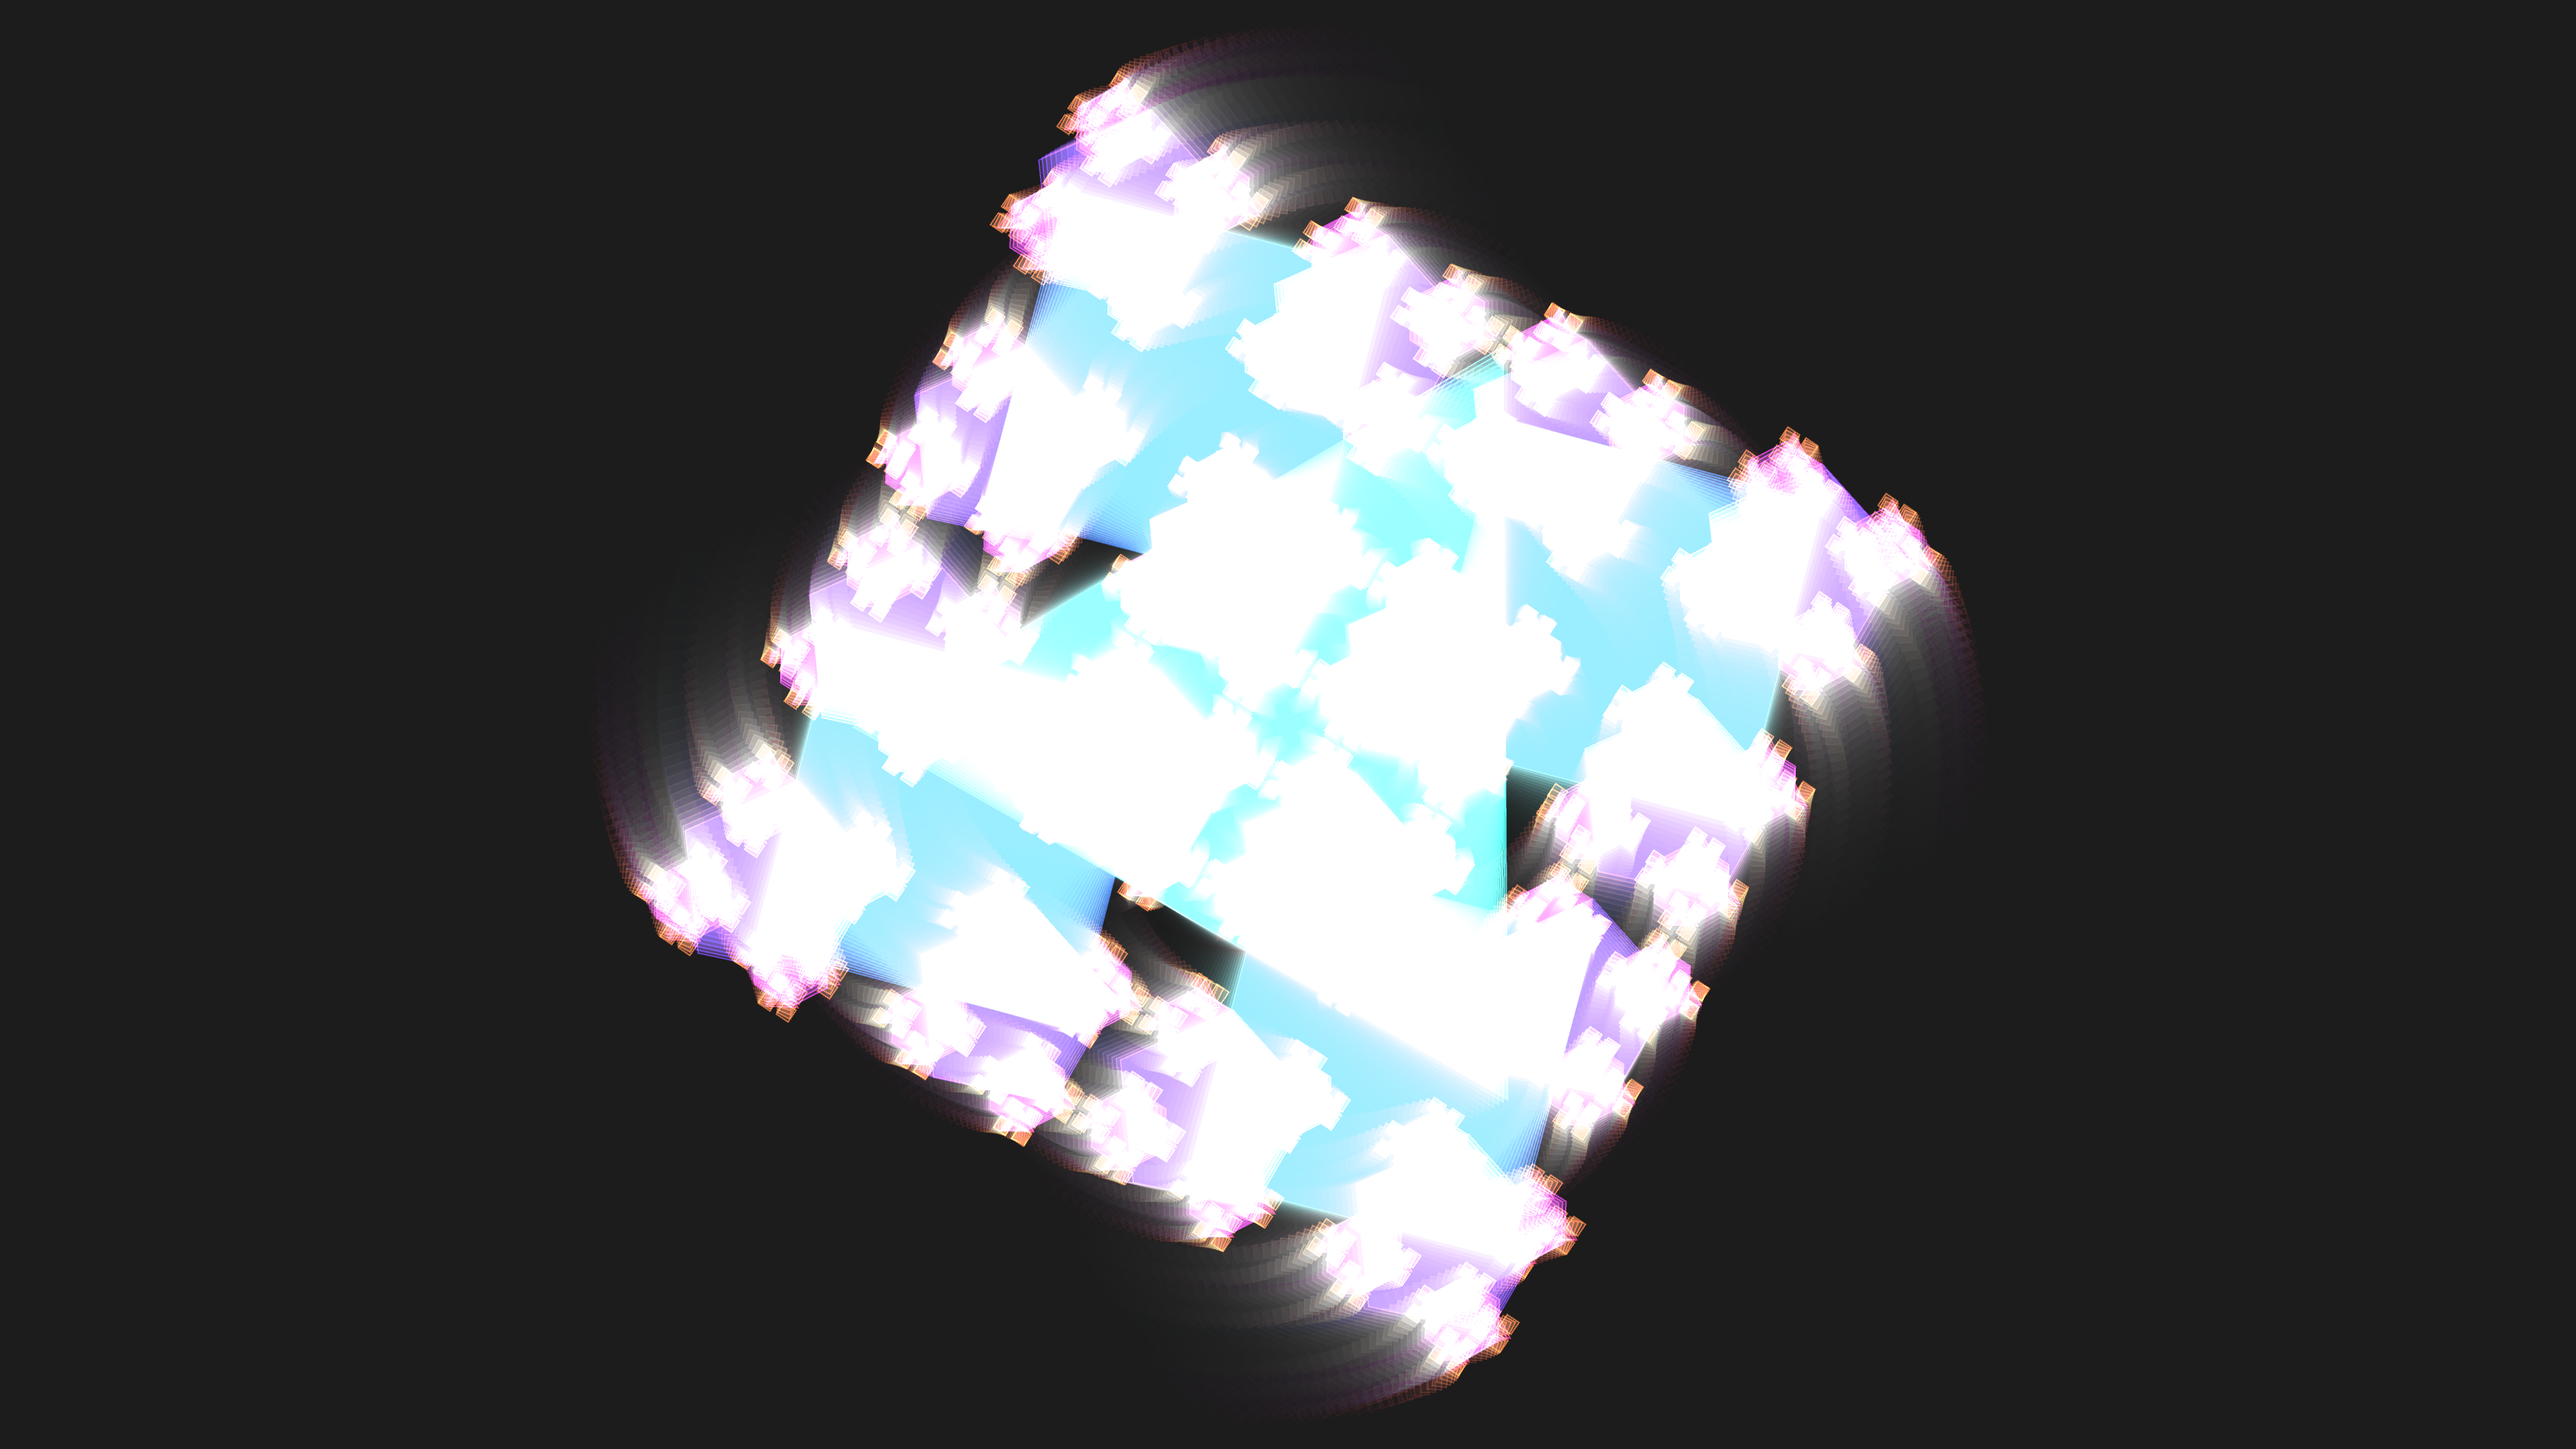
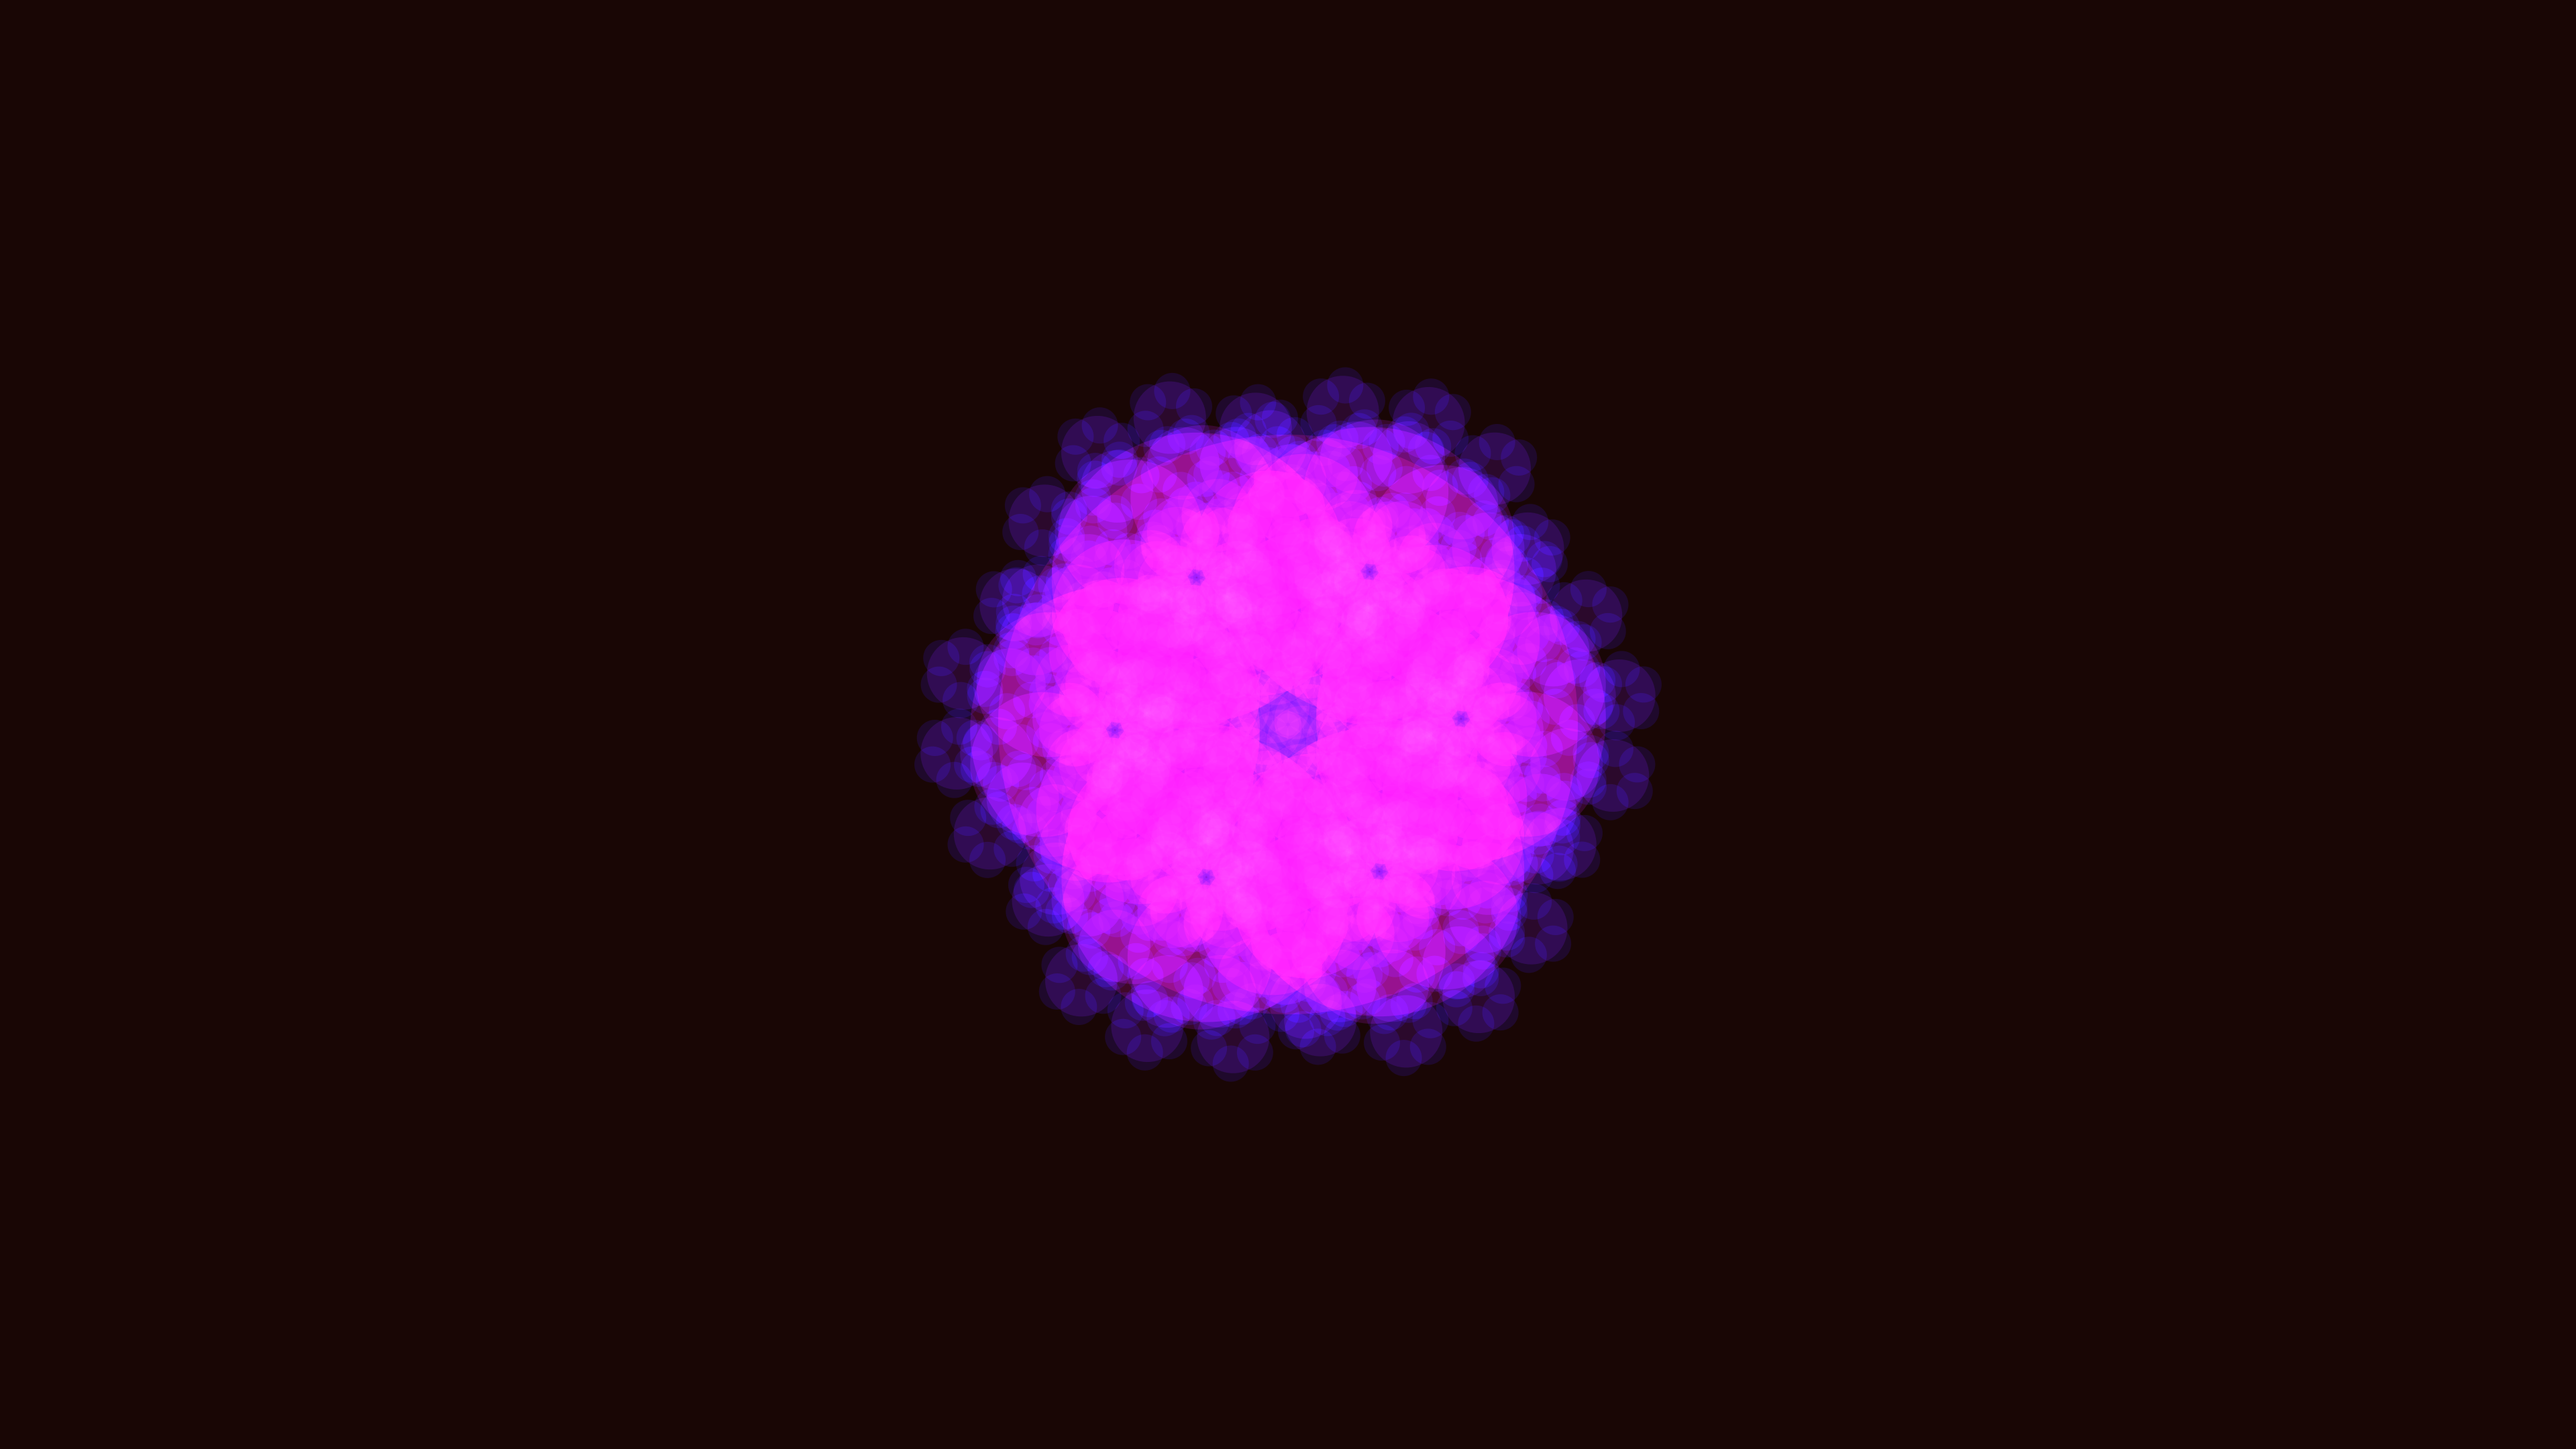
Add abstract_geometric_kaleidoscope_fractal_2d

diff --git a/sketch/abstract_geometric_kaleidoscope_fractal_2d/main.py b/sketch/abstract_geometric_kaleidoscope_fractal_2d/main.py
@@ -2,6 +2,7 @@ from pathlib import Path
 import shutil
 import subprocess
 import sys
+import math
 import py5
 
 PROJECT_ROOT = Path(__file__).resolve().parents[2]
@@ -9,7 +10,6 @@ if str(PROJECT_ROOT) not in sys.path:
     sys.path.append(str(PROJECT_ROOT))
 
 from lib.paths import sketch_dir
-from lib.preview import preview_filename
 from lib.sizes import get_sizes
 
 SKETCH_DIR = sketch_dir(__file__)
@@ -22,86 +22,76 @@ PREVIEW_FILENAME = f"{WORK_NAME}_p1.png"
 PREVIEW_SIZE, OUTPUT_SIZE, _ = get_sizes()
 SIZE = OUTPUT_SIZE
 
-def draw_fractal(x, y, r, depth, max_depth, time_val):
-    if depth > max_depth:
+def setup():
+    py5.size(*SIZE)
+    py5.pixel_density(1)
+    FRAMES_DIR.mkdir(exist_ok=True)
+    py5.color_mode(py5.HSB, 360, 100, 100, 255)
+    py5.no_stroke()
+    # Blend mode ADD for glowing overlaps
+    py5.blend_mode(py5.ADD)
+
+def draw_fractal(length, depth, max_depth, t):
+    if depth == 0:
         return
         
-    # Color based on depth and time
-    hue = (depth * 40 + time_val * 100) % 360
-    py5.stroke(hue, 80, 100, 150)
-    py5.fill(hue, 60, 100, 50)
+    hue = (depth * 20 + py5.frame_count * 0.5) % 360
+    py5.fill(hue, 90, 80, 50)
     
-    py5.push_matrix()
-    py5.translate(x, y)
+    # Draw shape
+    py5.circle(0, 0, length)
     
-    # Rotate each layer slightly differently
-    rot_angle = py5.sin(time_val * 0.5 + depth * 0.2) * py5.TWO_PI
-    py5.rotate(rot_angle)
+    # Recursion
+    new_length = length * 0.5
+    num_branches = 6
     
-    # Draw geometric shape
-    sides = 3 + (depth % 4) # Vary shape by depth
-    py5.begin_shape()
-    for i in range(sides):
-        angle = py5.TWO_PI * i / sides
-        px = py5.cos(angle) * r
-        py = py5.sin(angle) * r
-        py5.vertex(px, py)
-    py5.end_shape(py5.CLOSE)
+    # Base rotation that evolves
+    base_rot = math.sin(t + depth * 0.2) * math.pi / 4
     
-    # Branch out
-    branches = 4
-    for i in range(branches):
-        branch_angle = (py5.TWO_PI * i / branches) + time_val * 0.2
-        bx = py5.cos(branch_angle) * r * 0.8
-        by = py5.sin(branch_angle) * r * 0.8
+    for i in range(num_branches):
+        py5.push_matrix()
+        angle = i * (py5.TWO_PI / num_branches) + base_rot
         
-        # Scale down
-        new_r = r * 0.5 * (1 + py5.sin(time_val + depth) * 0.2)
-        draw_fractal(bx, by, new_r, depth + 1, max_depth, time_val)
+        # Position offset
+        offset_dist = length * 0.6 * math.cos(t * 0.5 + depth)
+        py5.rotate(angle)
+        py5.translate(offset_dist, 0)
         
-    py5.pop_matrix()
-
-def setup():
-    py5.size(*SIZE, py5.P2D)
-    py5.pixel_density(1)
-    py5.color_mode(py5.HSB, 360, 100, 100, 255)
-    FRAMES_DIR.mkdir(exist_ok=True)
+        # Recursive rotation
+        py5.rotate(t * 2)
+        
+        draw_fractal(new_length, depth - 1, max_depth, t)
+        py5.pop_matrix()
 
 def draw():
-    # Motion blur / trails
-    py5.no_stroke()
-    py5.fill(0, 0, 10, 40)
-    py5.rect(0, 0, SIZE[0], SIZE[1])
+    py5.background(5, 80, 10)
     
-    py5.blend_mode(py5.ADD)
+    t = py5.frame_count * 0.015
     
-    time_val = py5.frame_count * 0.02
+    py5.translate(py5.width/2, py5.height/2)
     
-    # Draw the main fractal at the center
-    py5.push_matrix()
-    py5.translate(SIZE[0]/2, SIZE[1]/2)
-    # Slow rotation of the entire piece
-    py5.rotate(time_val * 0.1)
-    py5.stroke_weight(2)
-    draw_fractal(0, 0, SIZE[1] * 0.3, 0, 5, time_val)
-    py5.pop_matrix()
-
-    py5.blend_mode(py5.BLEND)
+    # Global rotation
+    py5.rotate(t * 0.5)
+    
+    # Start recursive drawing
+    # Decrease max_depth slightly to ensure smooth 60fps
+    draw_fractal(py5.height * 0.4, 5, 5, t)
 
     py5.save_frame(str(FRAMES_DIR / "frame-####.png"))
 
     if py5.frame_count == 2 or py5.frame_count % 60 == 0:
         py5.load_np_pixels()
         if py5.np_pixels.std() < 1.0:
-            print(f"[Error] Blank screen detected on frame {py5.frame_count}. Aborting.")
+            print(f"[Error] Blank screen detected on frame {py5.frame_count} (std < 1.0). Aborting.")
             import os
             os._exit(1)
 
     if py5.frame_count % 60 == 0:
-        print(f"[Render Progress] Frame {py5.frame_count}/{TOTAL_FRAMES} ({(py5.frame_count/TOTAL_FRAMES)*100:.1f}%)")
+        print(f"[Render Progress] Frame {py5.frame_count}/{TOTAL_FRAMES} ({py5.frame_count/TOTAL_FRAMES*100:.1f}%)")
 
     if py5.frame_count >= TOTAL_FRAMES:
         py5.exit_sketch()
+        
         print(f"[Render FFmpeg] Compiling {TOTAL_FRAMES} frames into video...")
         subprocess.run([
             "ffmpeg", "-y", "-r", str(FPS),
@@ -115,7 +105,8 @@ def draw():
         
         if FRAMES_DIR.exists():
             shutil.rmtree(FRAMES_DIR)
-            print("[Render Cleanup] Temporary frames directory removed.")
+            print("[Render Cleanup] Temporary frames directory successfully removed.")
+            
         import os
         os._exit(0)
 

diff --git a/prepend.py b/prepend.py
@@ -1,15 +1,15 @@
 import os
 
-works_content = """## generative_flow_field_topography_2d
+works_content = """## abstract_geometric_kaleidoscope_fractal_2d
 
 - **Date**: 2026-06-26
-- **Theme**: A continuous generation of contour-like lines flowing across the screen, mimicking the look of dynamically shifting topographical maps.
-- **Technique**: Uses thousands of individual particles navigating through a time-varying OpenSimplex noise vector field. A semi-transparent background clearing technique is used to create smooth, lingering trails that fade over time.
-- **Description**: An animated 15s sequence of topographic flow fields evolving dynamically.
+- **Theme**: A glowing, infinitely unfolding geometric fractal that mimics the shifting mirrors of a kaleidoscope.
+- **Technique**: Uses standard 2D recursive rendering. At each level of recursion, the shape splits into 6 branches that rotate and translate based on time and their recursive depth. The ADD blend mode creates intense glowing intersections where the semi-transparent layers overlap.
+- **Description**: An animated 15s sequence of a geometric fractal kaleidoscope unfolding.
 
 """
 
-feedback_content = """## generative_flow_field_topography_2d
+feedback_content = """## abstract_geometric_kaleidoscope_fractal_2d
 
 - **Rating**: 
 - **Comment**: 

diff --git a/sketch/abstract_geometric_kaleidoscope_fractal_2d/README.md b/sketch/abstract_geometric_kaleidoscope_fractal_2d/README.md
@@ -1,8 +1,7 @@
 # abstract_geometric_kaleidoscope_fractal_2d
 
-An animated 15s sequence of an intricate, constantly shifting geometric kaleidoscope that branches into smaller repeating shapes, creating a fractal-like illusion.
+## Theme
+A glowing, infinitely unfolding geometric fractal that mimics the shifting mirrors of a kaleidoscope.
 
-- **Theme**: An intricate, constantly shifting geometric kaleidoscope that branches into smaller repeating shapes, creating a fractal-like illusion.
-- **Technique**: A recursive drawing algorithm that generates a 2D radial symmetry pattern. As time passes, the angles, sizes, and depth of recursion slowly change based on overlapping sine waves. The blending mode ensures colors overlap dynamically.
-
-![Preview](abstract_geometric_kaleidoscope_fractal_2d_p1.png)
+## Technique
+Uses standard 2D recursive rendering. At each level of recursion, the shape splits into 6 branches that rotate and translate based on time and their recursive depth. The ADD blend mode creates intense glowing intersections where the semi-transparent layers overlap.

diff --git a/sketch/WORKS.md b/sketch/WORKS.md
@@ -1,3 +1,10 @@
+## abstract_geometric_kaleidoscope_fractal_2d
+
+- **Date**: 2026-06-26
+- **Theme**: A glowing, infinitely unfolding geometric fractal that mimics the shifting mirrors of a kaleidoscope.
+- **Technique**: Uses standard 2D recursive rendering. At each level of recursion, the shape splits into 6 branches that rotate and translate based on time and their recursive depth. The ADD blend mode creates intense glowing intersections where the semi-transparent layers overlap.
+- **Description**: An animated 15s sequence of a geometric fractal kaleidoscope unfolding.
+
 ## generative_flow_field_topography_2d
 
 - **Date**: 2026-06-26

diff --git a/.agents/FEEDBACK.md b/.agents/FEEDBACK.md
@@ -1,3 +1,8 @@
+## abstract_geometric_kaleidoscope_fractal_2d
+
+- **Rating**: 
+- **Comment**: 
+
 ## generative_flow_field_topography_2d
 
 - **Rating**: 
